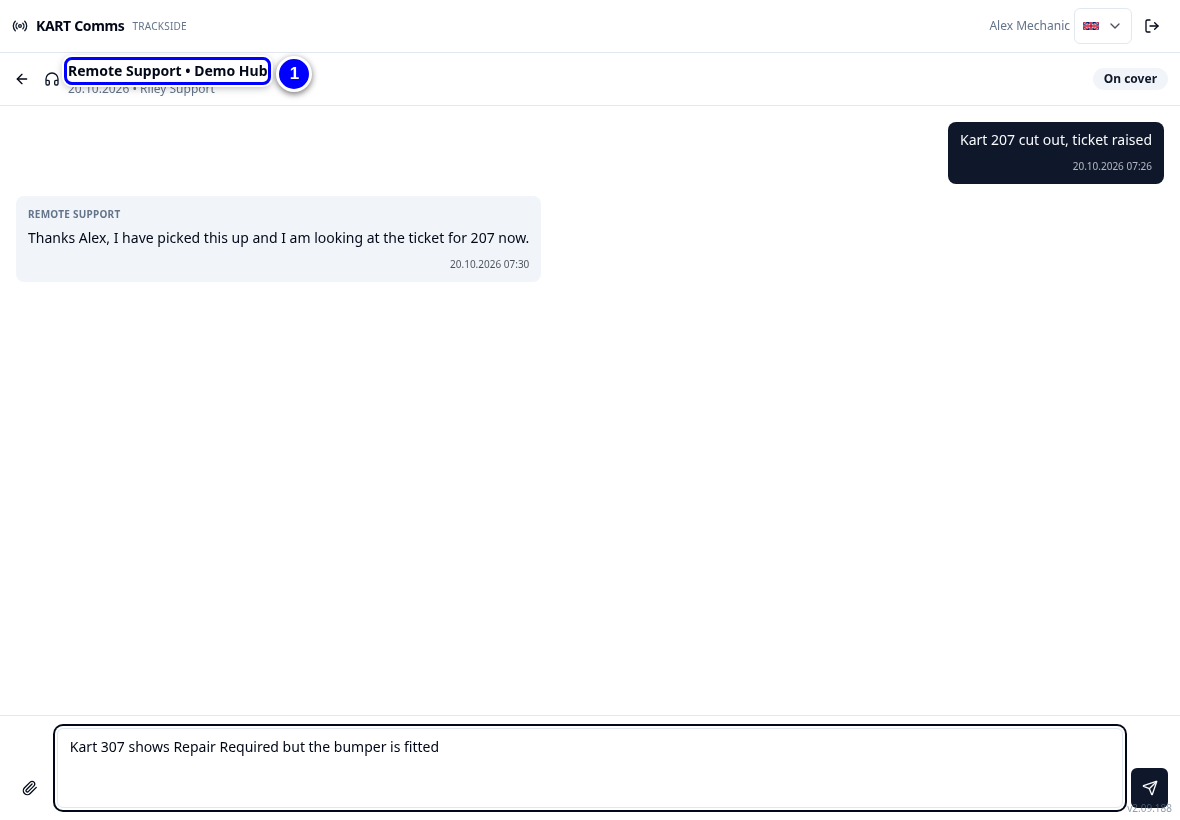
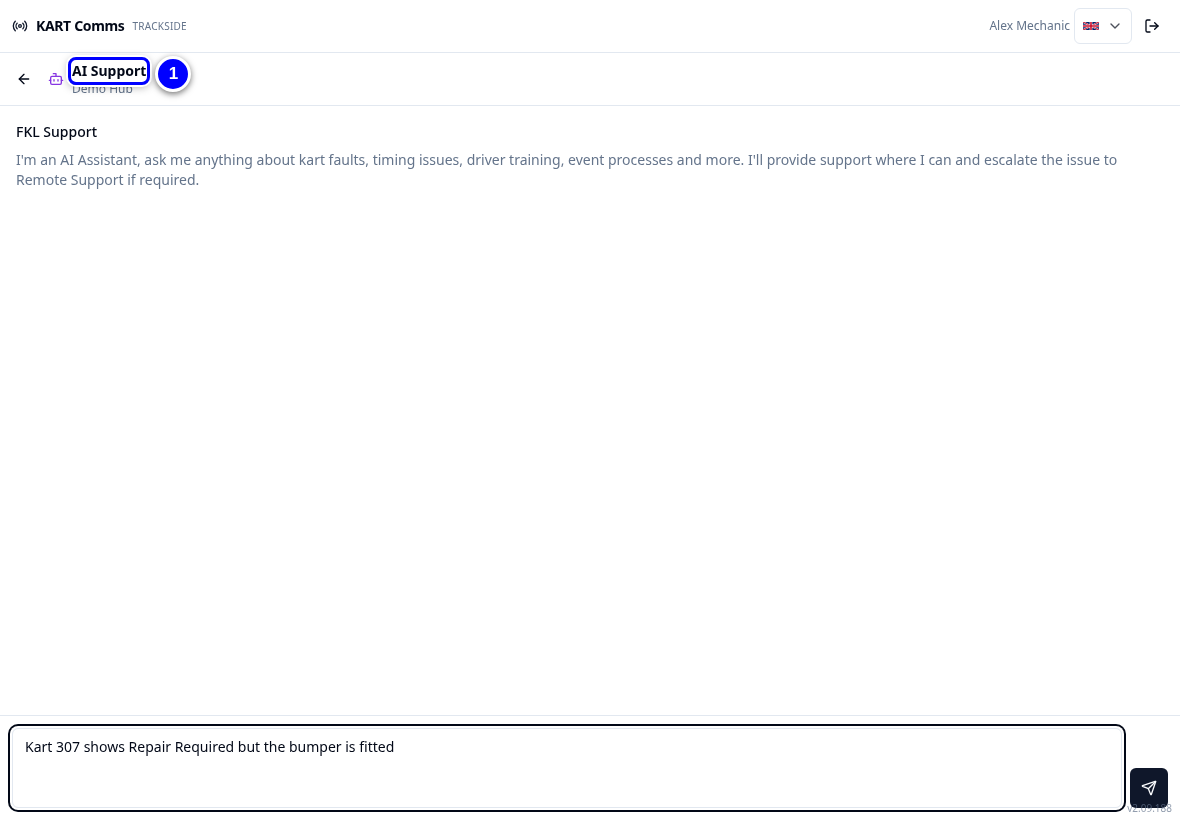
D-38/39: re-record rs-trackside-cover, rs-trackside-send, gen-trouble-comms on the fake-data stack; follow-ups in escalated AI chats

diff --git a/content/remote-support/comms.md b/content/remote-support/comms.md
@@ -48,7 +48,7 @@ AI Support is always the first point of contact. Only the AI passes a chat on to
 
 3. If the answer does not solve it, tap **Ask remote support** in the AI chat. The AI escalates the chat to Remote Support or FKL Central, and a person replies in the same chat.
 
-4. The escalated chat stays under **AI Chats** with the status **Requires support**, and **With** and a name once someone has taken it. Open it to read the reply, type yours and tap the send button.
+4. The escalated chat stays under **AI Chats** with the status **Requires support**, and **With** and a name once someone has taken it. Open it to read the reply, type yours and tap the send button. The AI does not answer while remote support is on the chat; your message goes to remote support.
 
     :::shot rs-trackside-send
     caption: "Step 4: an escalated AI chat with Requires support and a reply typed"
@@ -57,7 +57,7 @@ AI Support is always the first point of contact. Only the AI passes a chat on to
     state: "Alex Mechanic's AI chat about Junior 307 escalated, taken by Riley Support"
     steps:
       - Tap AI Chats and open the escalated chat
-      - Type "Kart 307 shows Repair Required but the bumper is fitted"
+      - Type "Yes, the remedy is logged on the bumper repair."
     callouts:
       - [4, "text=Requires support", "A person is on it"]
     :::

diff --git a/docs/remote-support/comms.md b/docs/remote-support/comms.md
@@ -26,7 +26,7 @@ AI Support is always the first point of contact. Only the AI passes a chat on to
 
 3. If the answer does not solve it, tap **Ask remote support** in the AI chat. The AI escalates the chat to Remote Support or FKL Central, and a person replies in the same chat.
 
-4. The escalated chat stays under **AI Chats** with the status **Requires support**, and **With** and a name once someone has taken it. Open it to read the reply, type yours and tap the send button.
+4. The escalated chat stays under **AI Chats** with the status **Requires support**, and **With** and a name once someone has taken it. Open it to read the reply, type yours and tap the send button. The AI does not answer while remote support is on the chat; your message goes to remote support.
 
     ![Step 4: an escalated AI chat with Requires support and a reply typed](../assets/img/remote-support/rs-trackside-send.png){ loading=lazy }
 
